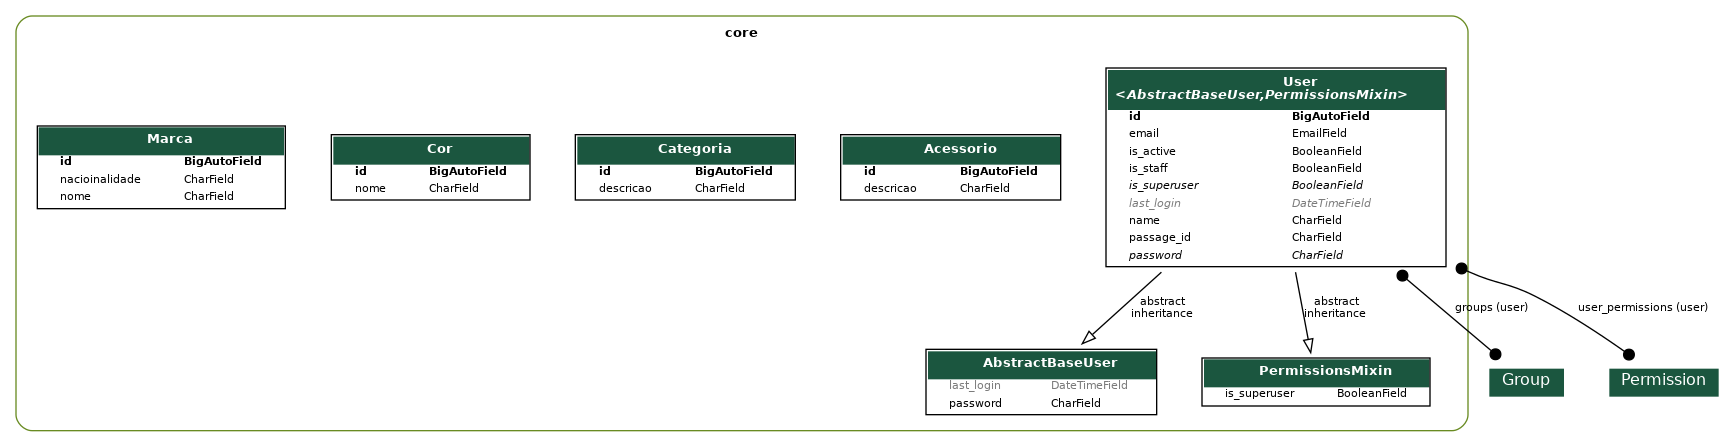
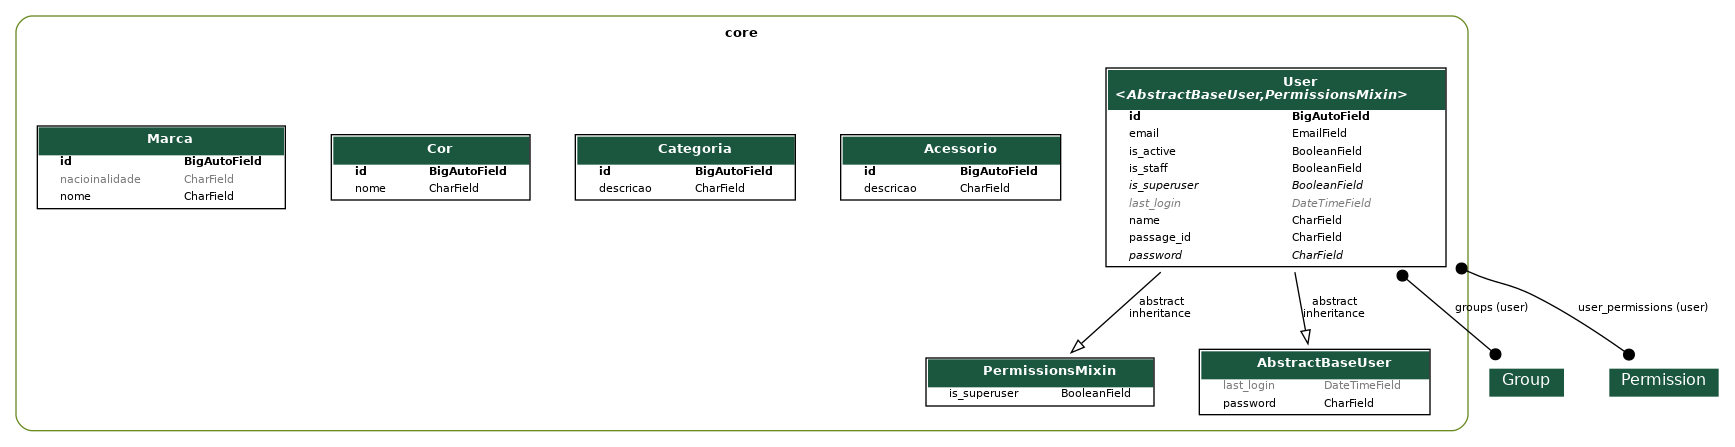
alteração final

Changed region(s): [[0.5291, 0.6689, 0.8403, 0.9306], [0.0311, 0.3781, 0.1245, 0.4072], [0.6536, 0.6689, 0.6847, 0.7271]]

diff --git a/core/migrations/0006_alter_cor_options_alter_marca_nacioinalidade.py b/core/migrations/0006_alter_cor_options_alter_marca_nacioinalidade.py
@@ -1,0 +1,22 @@
+# Generated by Django 5.0.6 on 2024-08-01 12:16
+
+from django.db import migrations, models
+
+
+class Migration(migrations.Migration):
+
+    dependencies = [
+        ("core", "0005_marca"),
+    ]
+
+    operations = [
+        migrations.AlterModelOptions(
+            name="cor",
+            options={"verbose_name": "Cor", "verbose_name_plural": "Cores"},
+        ),
+        migrations.AlterField(
+            model_name="marca",
+            name="nacioinalidade",
+            field=models.CharField(blank=True, max_length=50, null=True),
+        ),
+    ]

diff --git a/core/models/marca.py b/core/models/marca.py
@@ -2,7 +2,7 @@ from django.db import models
 
 class Marca(models.Model):
     nome = models.CharField(max_length=100)
-    nacioinalidade = models.CharField(max_length=50)
+    nacioinalidade = models.CharField(max_length=50, null=True, blank=True)
  
 
     def __str__(self):

diff --git a/core/models/cor.py b/core/models/cor.py
@@ -6,3 +6,7 @@ class Cor(models.Model):
 
     def __str__(self):
         return self.nome
+    
+    class Meta: 
+        verbose_name = "Cor"
+        verbose_name_plural = "Cores"
